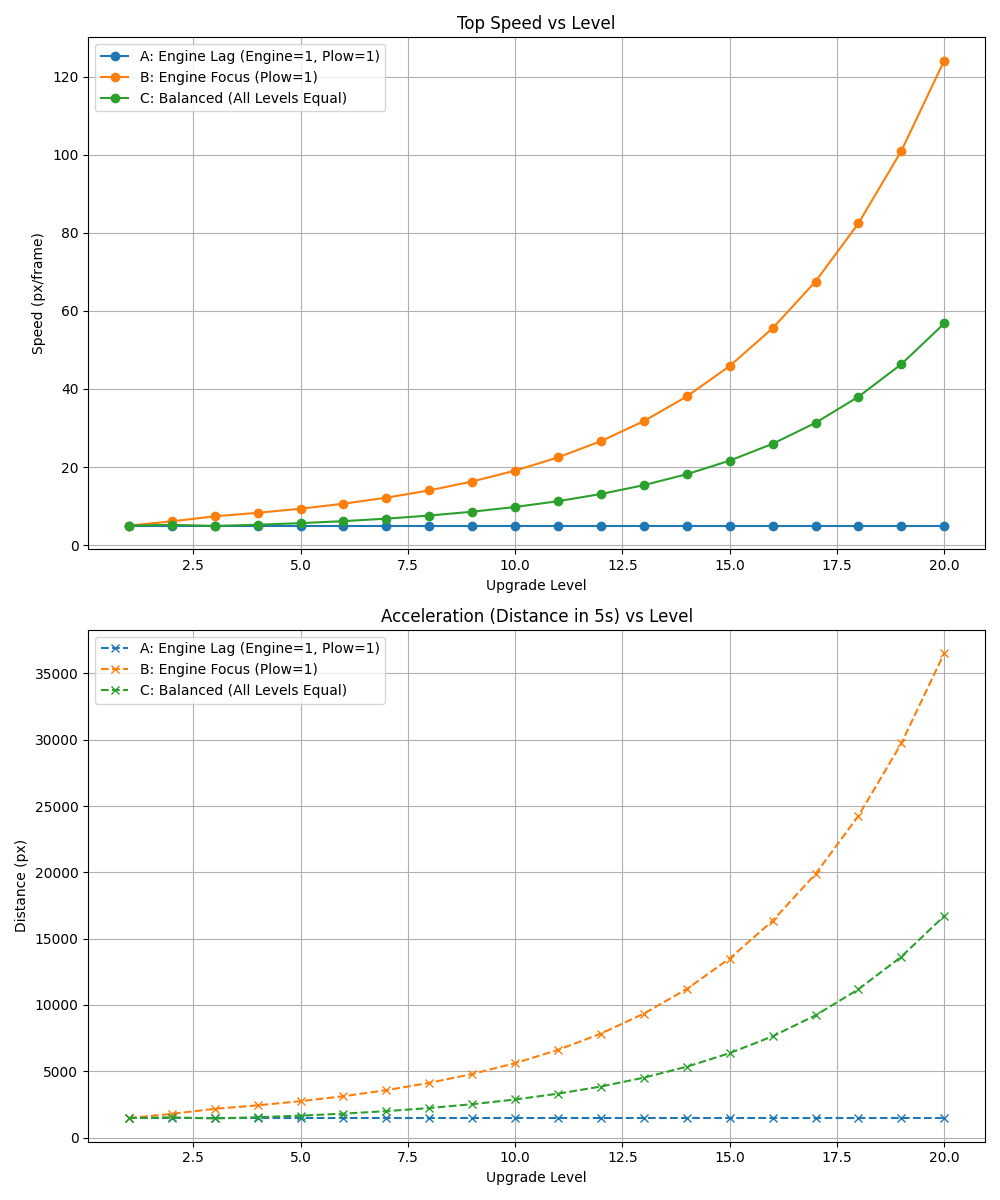
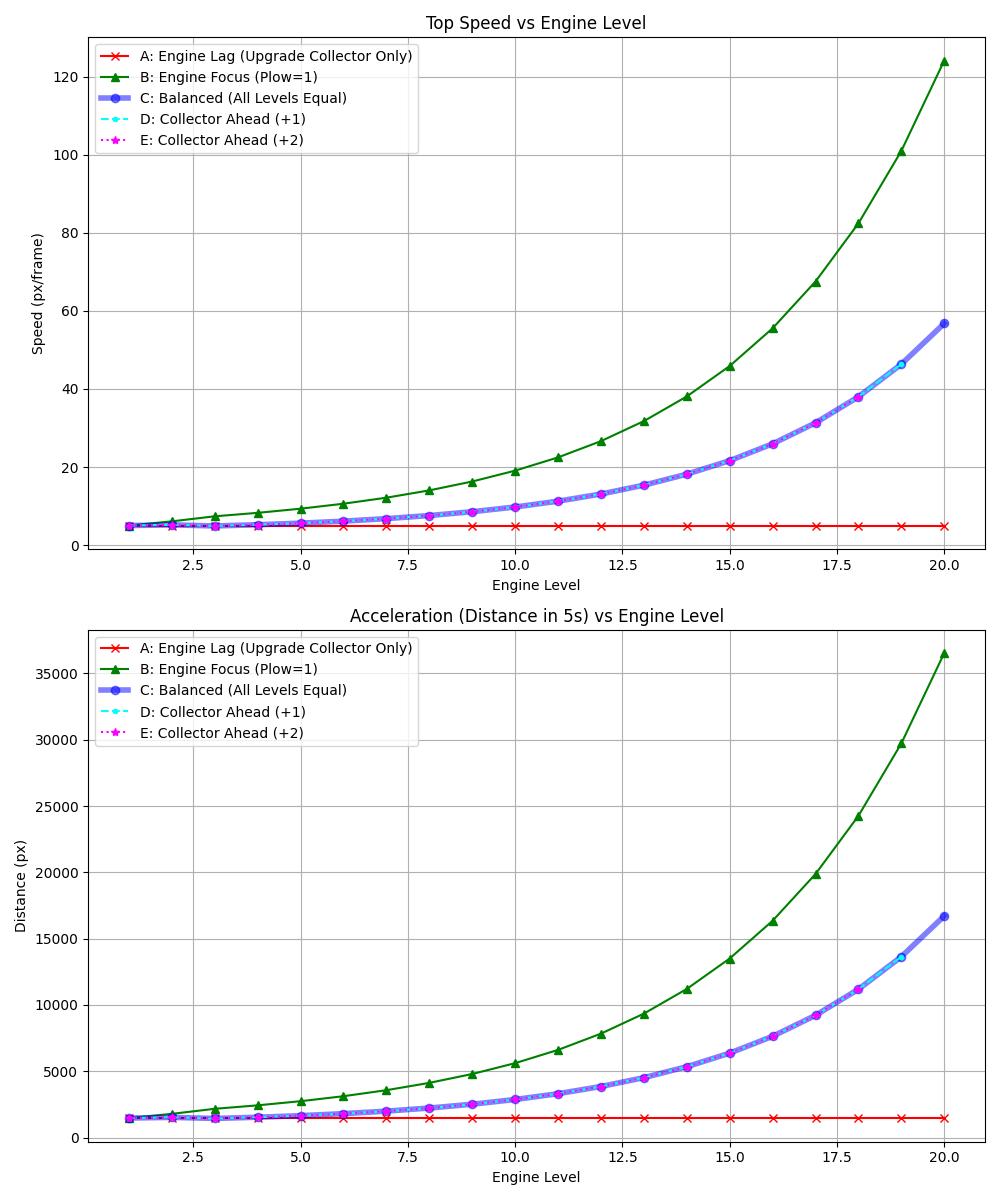
Deploy preview for PR 39 🛫

diff --git a/pr-preview/pr-39/docs/guide/progression_analysis/index.html b/pr-preview/pr-39/docs/guide/progression_analysis/index.html
@@ -1359,7 +1359,7 @@
 <p class="admonition-title">Metadata</p>
 <ul>
 <li><strong>Date:</strong> 2026-01-13</li>
-<li><strong>Version:</strong> 1.7 (Verified Logic &amp; Plots)</li>
+<li><strong>Version:</strong> 1.8 (Deep Permutation Analysis)</li>
 <li><strong>Scope:</strong> Current values for costs, entity stats, and economy.</li>
 </ul>
 </div>
@@ -1453,11 +1453,13 @@
 </table>
 <h2 id="3-entity-scaling-verification">3. Entity Scaling Verification<a class="headerlink" href="#3-entity-scaling-verification" title="Permanent link">&para;</a></h2>
 <h3 id="performance-curves">Performance Curves<a class="headerlink" href="#performance-curves" title="Permanent link">&para;</a></h3>
-<p>The following charts illustrate <strong>Top Speed</strong> (px/frame) and <strong>Acceleration</strong> (Distance traveled in 5s) across three progression scenarios:</p>
+<p>The following charts illustrate <strong>Top Speed</strong> (px/frame) and <strong>Acceleration</strong> (Distance traveled in 5s) across five progression scenarios:</p>
 <ol>
-<li><strong>A: Engine Lag (Engine=1, Plow=1):</strong> The "Control" group. The player upgrades only the Collector. Since the Collector is a static sensor body, it does not affect the bulldozer's mass or physics. This line is expected to be flat.</li>
+<li><strong>A: Engine Lag (Engine=1, Plow=1):</strong> The "Control" group. The player upgrades only the Collector. Since the Collector is a static sensor body, it does not affect the bulldozer's mass or physics. This line is flat.</li>
 <li><strong>B: Engine Focus (Plow=1):</strong> The "Racer" build. The player upgrades only the Engine, keeping the Plow at Level 1. This minimizes mass gain while maximizing power, resulting in the highest possible speeds.</li>
-<li><strong>C: Balanced (All Levels Equal):</strong> The "Standard" progression. The player upgrades Engine, Plow, and Collector roughly equally. This curve represents the intended "Power Fantasy", balancing increased mass (from the Plow) with increased power.</li>
+<li><strong>C: Balanced (All Levels Equal):</strong> The "Standard" progression. The player upgrades Engine, Plow, and Collector roughly equally.</li>
+<li><strong>D: Collector Lead +1 (Engine=L, Plow=L, Coll=L+1):</strong> Verifies that having the Collector one level ahead of the drivetrain does not negatively impact physics. This line overlaps "Balanced".</li>
+<li><strong>E: Collector Lead +2 (Engine=L, Plow=L, Coll=L+2):</strong> Verifies that having the Collector two levels ahead does not impact physics. This line overlaps "Balanced".</li>
 </ol>
 <p><img alt="Progression Curves" src="../progression_curves.png" /></p>
 <h3 id="methodology">Methodology<a class="headerlink" href="#methodology" title="Permanent link">&para;</a></h3>
@@ -1503,6 +1505,7 @@
 <li><strong>Baseline Improvement:</strong> Starting speed is now ~5.0 px/f (vs ~2.9), making the base bulldozer feel more responsive.</li>
 <li><strong>Progression Gap:</strong> The Level 3 "Dip" has been significantly mitigated.</li>
 <li><strong>Late Game:</strong> Speed scales aggressively (up to ~56 px/f at Lvl 20), delivering the requested "Power Fantasy".</li>
+<li><strong>Collector Impact:</strong> Upgrading the collector (Scenarios D &amp; E) has zero impact on physics, as confirmed by the curves overlapping the Standard progression.</li>
 </ul>
 <h3 id="implemented-logic">Implemented Logic<a class="headerlink" href="#implemented-logic" title="Permanent link">&para;</a></h3>
 <p><code>Force = (0.012 * 1.35^Level) + (Mass * 0.001)</code></p>

diff --git a/pr-preview/pr-39/src/entities/bulldozer.js b/pr-preview/pr-39/src/entities/bulldozer.js
@@ -55,7 +55,9 @@ export function createBulldozer() {
         const angleLeft = -Math.PI/2 - wingAngle;
         
         // Calculate Center Position
-        const lx = (-plowWidth / 2) + (wingLength / 2) * Math.cos(angleLeft);
+        // Overlap by 10 units to ensure visual/physical continuity and seal the gap
+        const overlap = 10;
+        const lx = (-plowWidth / 2 + overlap) + (wingLength / 2) * Math.cos(angleLeft);
         const ly = plowOffset + (wingLength / 2) * Math.sin(angleLeft);
 
         const leftWing = Bodies.rectangle(lx, ly, wingLength, wingWidth, {
@@ -67,7 +69,7 @@ export function createBulldozer() {
         // Angle: Pointing Up (-PI/2) and slightly Right (+wingAngle)
         const angleRight = -Math.PI/2 + wingAngle;
         
-        const rx = (plowWidth / 2) + (wingLength / 2) * Math.cos(angleRight);
+        const rx = (plowWidth / 2 - overlap) + (wingLength / 2) * Math.cos(angleRight);
         const ry = plowOffset + (wingLength / 2) * Math.sin(angleRight);
 
         const rightWing = Bodies.rectangle(rx, ry, wingLength, wingWidth, {

diff --git a/pr-preview/pr-39/index.html b/pr-preview/pr-39/index.html
@@ -18,7 +18,7 @@
                 <div id="stats-speed" style="font-size: 0.8rem; color: #aaa;">Speed: 100%</div>
                 <div id="stats-power" style="font-size: 0.8rem; color: #aaa;">Power: 100%</div>
                 <div id="game-version" style="font-size: 0.6rem; color: #666; margin-top: 2px;">
-                    v1.0.0 <span id="build-timestamp">2026-01-13 09:05</span>
+                    v1.0.0 <span id="build-timestamp">2026-01-13 13:02</span>
                 </div>
             </div>
             <div style="display: flex; gap: 10px; align-items: center;">
